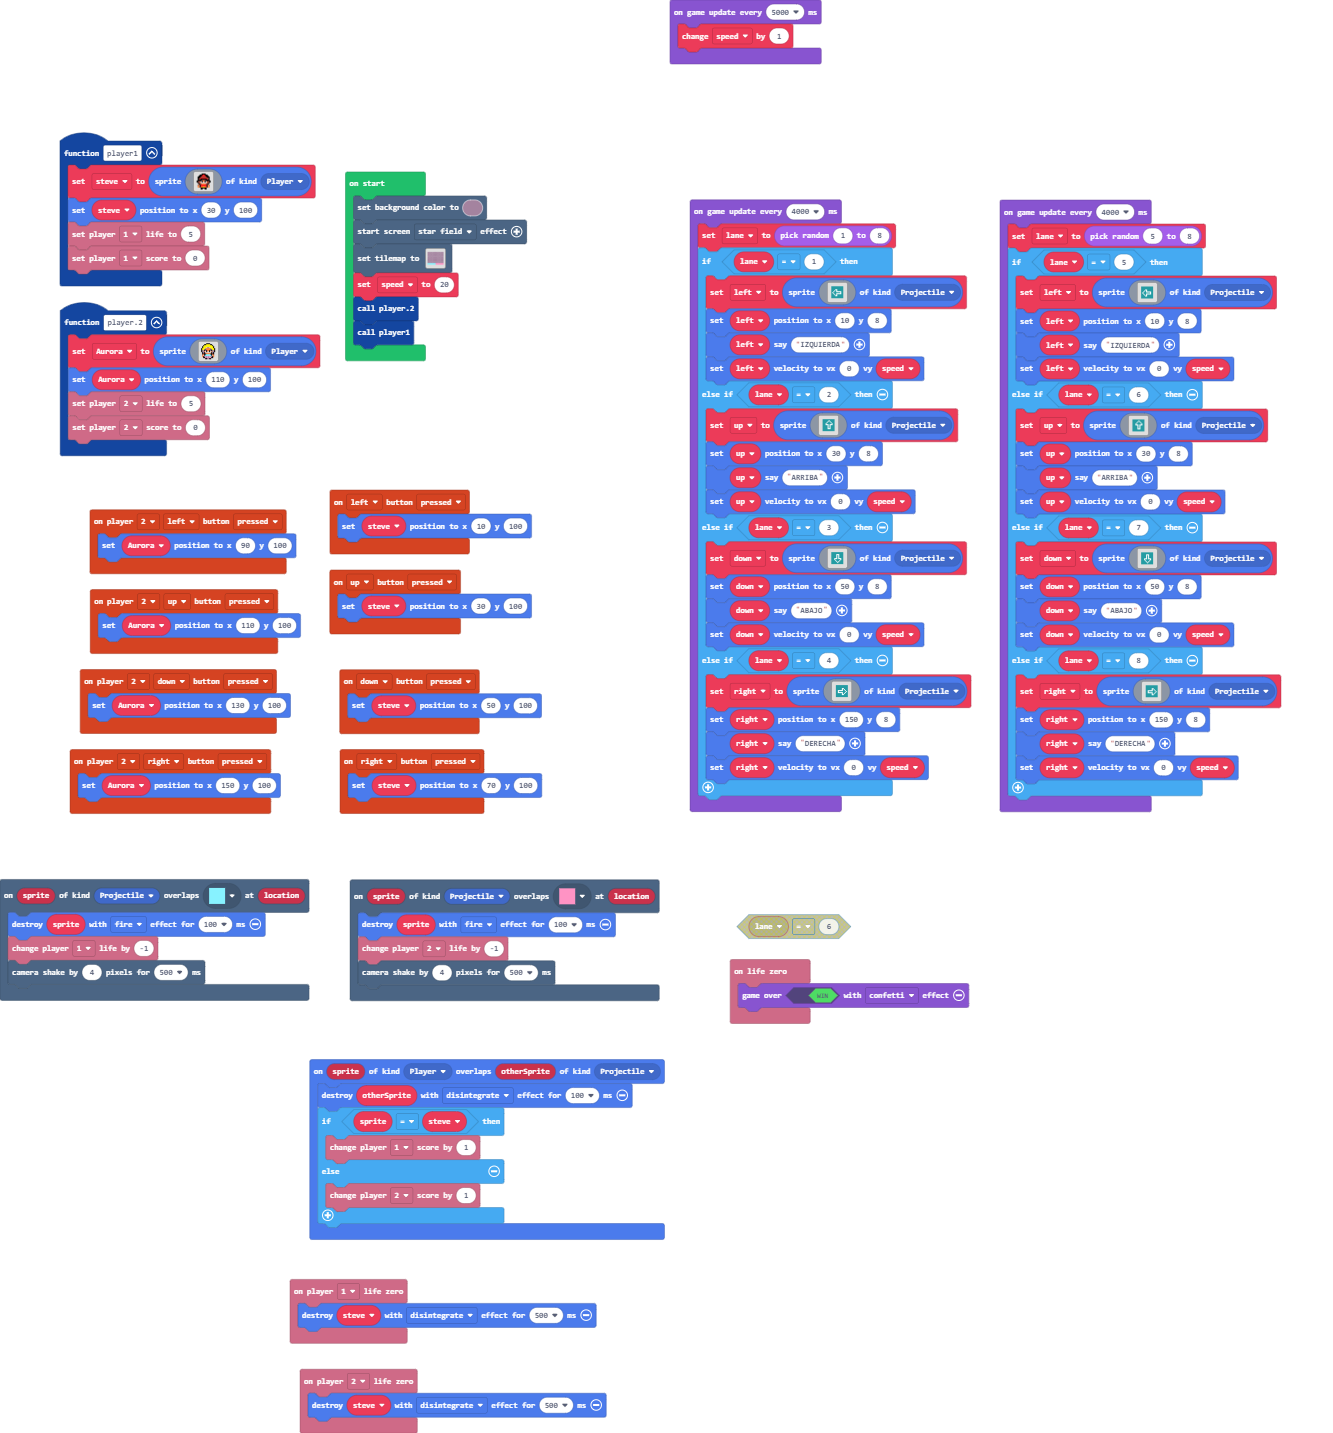
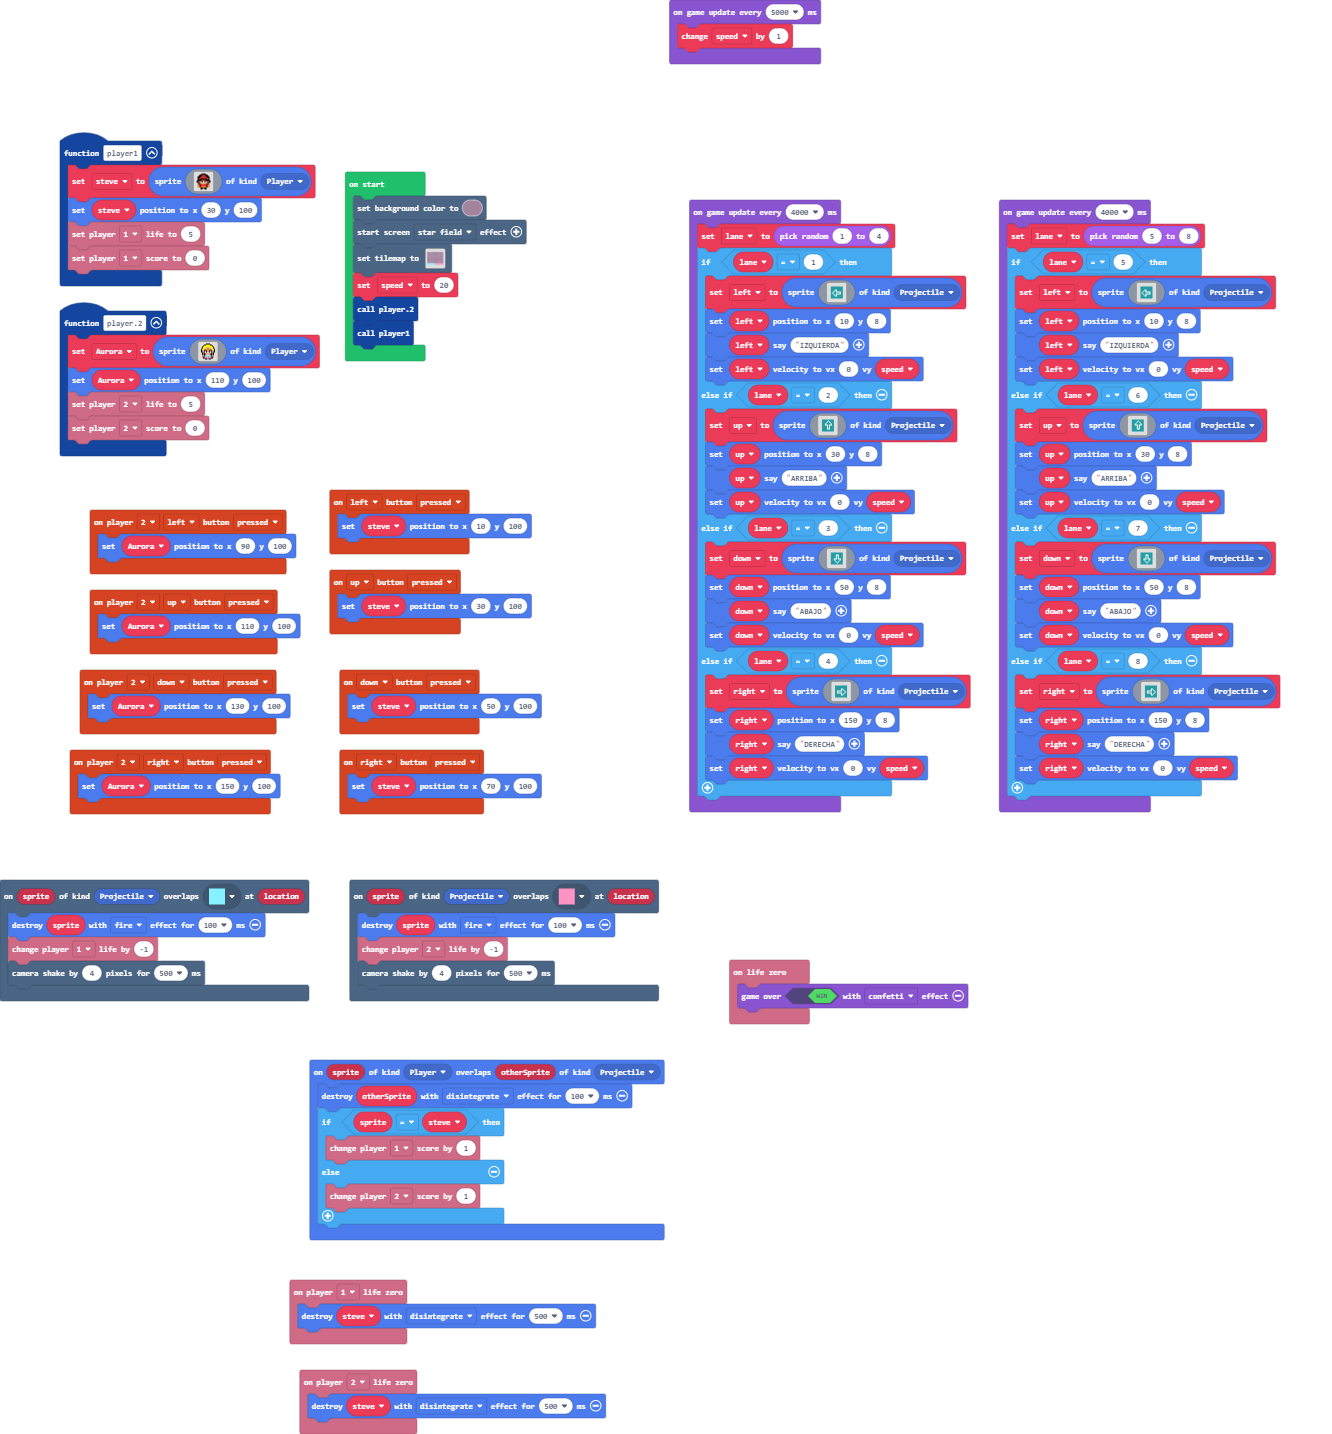
Update pxt.json, main.ts, main.blocks

diff --git a/main.ts b/main.ts
@@ -115,7 +115,7 @@ game.onUpdateInterval(5000, function () {
     speed += 1
 })
 game.onUpdateInterval(4000, function () {
-    lane = randint(1, 8)
+    lane = randint(1, 4)
     if (lane == 1) {
         left = sprites.create(img`
             . . . . . . . . . . . . . . . . 
